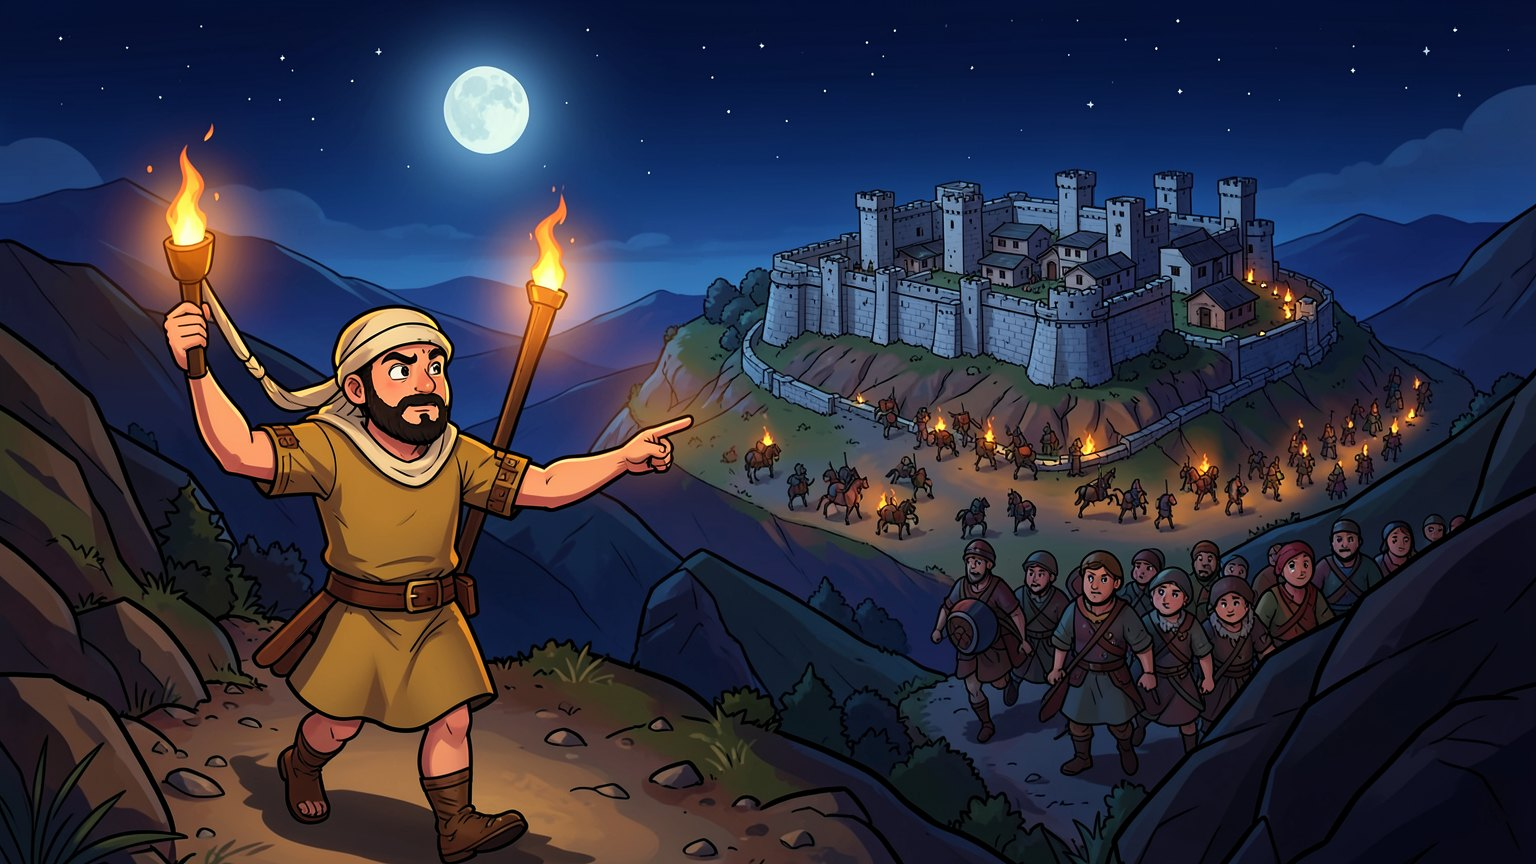
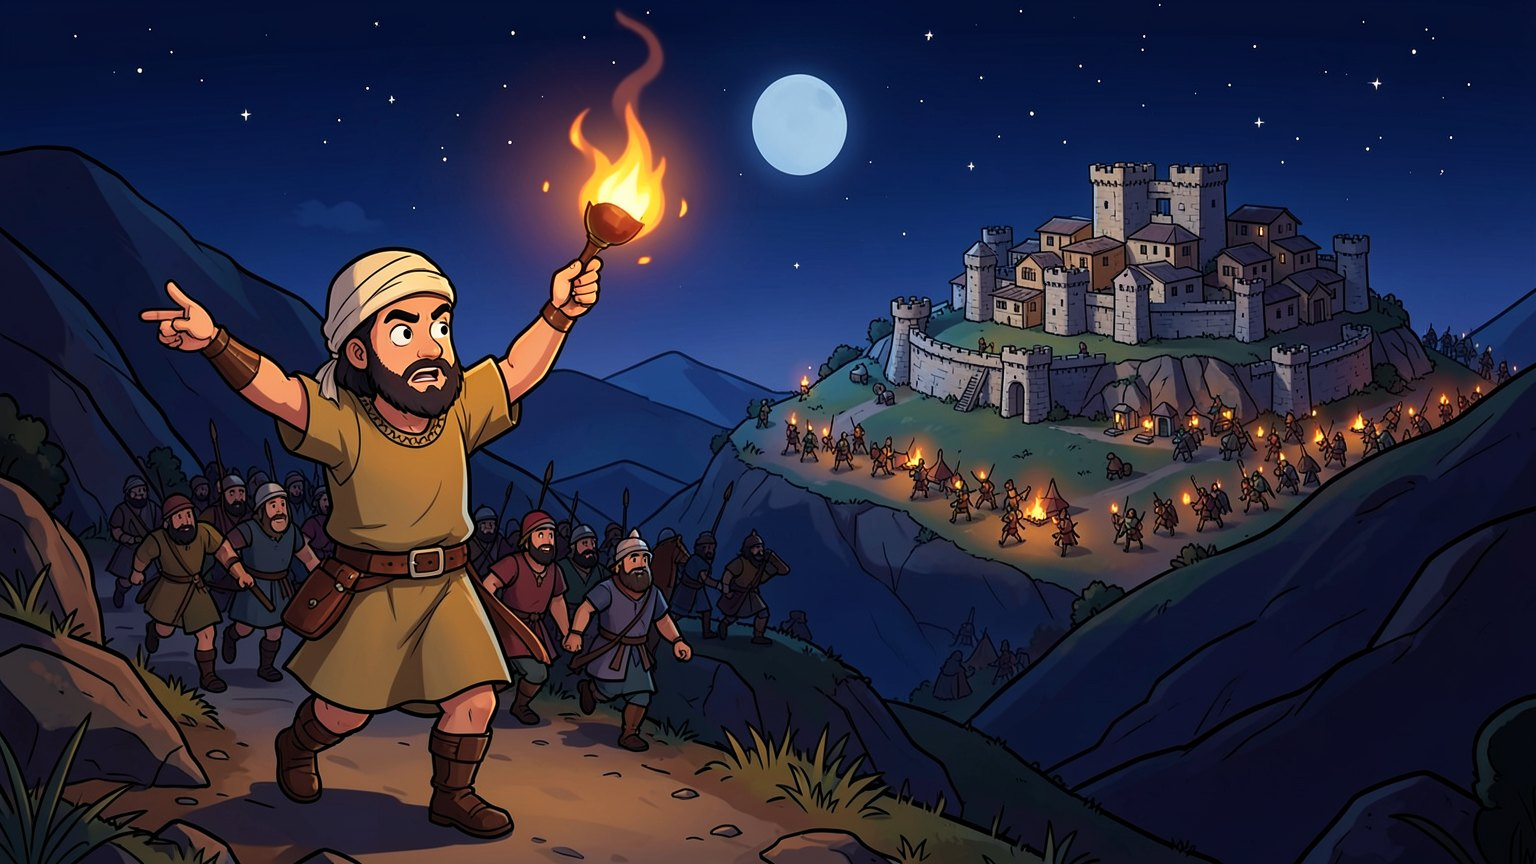
v1.7.1: 기브온 그림 고침(v10c 여호수아 팔 셋, s10c 누구 것인지 모를 손, s10g 횃불 하나 더)

diff --git a/index.html b/index.html
@@ -1785,7 +1785,7 @@ const ART_DEF={
   shep1:{h:62,top:.5},shep2:{h:68,top:.5},shep3:{h:74,top:.5},art1:{h:76,top:.7},art2:{h:82,top:.72},art3:{h:88,top:.74},
 };
 const ART={};
-const AV='?v=18';   // 그림을 바꿀 때마다 올려서 예전 그림이 캐시에서 나오지 않게
+const AV='?v=19';   // 그림을 바꿀 때마다 올려서 예전 그림이 캐시에서 나오지 않게
 const BG_IMG={},REAR_IMG={},FALL_IMG={};   // REAR_IMG: 처음엔 막혀 있는 뒷길을 덮는 그림(bgN_rear.png) · FALL_IMG: 성벽이 무너진 배경(bg9_fall.jpg, 수 6:20)
 function loadArt(){for(const k of Object.keys(STAGES).map(Number)){const im=new Image();im.onload=()=>{BG_IMG[k]=im;if(G&&G.sid===k)buildBg();};im.src='art/bg'+k+'.jpg'+AV;if(STAGES[k].rear!=null){const r=new Image();r.onload=()=>{REAR_IMG[k]=r;if(G&&G.sid===k)buildBg();};r.src='art/bg'+k+'_rear.png'+AV;}
     if(STAGES[k].jericho){const f=new Image();f.onload=()=>{FALL_IMG[k]=f;};f.src='art/bg'+k+'_fall.jpg'+AV;}}

diff --git a/_art/새그림10작성.py b/_art/새그림10작성.py
@@ -64,3 +64,22 @@ items3 = [
     scene("s10a", "inside a brown goat-hair tent at night by the light of one small clay oil lamp: one single Israelite man named Achan, all alone, with a brown beard and a plain striped tunic, kneels behind a shallow hole dug in the dirt floor and nervously hides in it a beautiful embroidered colorful robe, a small pile of shining silver pieces and one gold bar, glancing worriedly over his shoulder at the closed tent flap; the hole with the robe, the silver and the gold is right in the center of the picture at the height of the man's waist, seen from the front at eye level; the bottom third of the picture is only plain dark dirt floor; nobody else is in the tent; tense quiet mood, child-friendly.", (4, 5, 6)),
 ]
 json.dump({"출력": "raw", "크기": [1024, 1024], "단계": 4, "항목": items3}, open('새그림10c.json', 'w', encoding='utf-8'), ensure_ascii=False, indent=1)
+
+# 넷째 작업(새그림10d.json): v10c 시드 1은 가운데 여호수아의 팔이 셋(손 흔들기·악수·나뭇단)이어서(10-13 사용자), 악수만 하고 빈손으로 다시 그린다
+items4 = [
+    scene("v10c", f"in front of the open wooden gate of {CITY}, {GIBEON}, joyfully welcome the Israelites. In the center, {JOSHUA}, warmly shakes hands with a gray-bearded Gibeonite elder: Joshua's right hand holds the elder's right hand, and Joshua's left arm hangs relaxed at his side; Joshua carries nothing. Around them Gibeonite men carry bundles of firewood on their shoulders and Gibeonite women carry big clay water jars toward a simple stone altar with rising white smoke; children wave and smile; warm golden evening light, peace and friendship.", (2, 3, 4, 5)),
+]
+json.dump({"출력": "raw", "크기": [1024, 1024], "단계": 4, "항목": items4}, open('새그림10d.json', 'w', encoding='utf-8'), ensure_ascii=False, indent=1)
+
+# 다섯째 작업(새그림10e.json): v10c를 고치며 다른 그림도 확대해 보니, s10c는 두루마리 든 여호수아 어깨 뒤에 누구 것인지 모를 손이, s10g는 여호수아 등 뒤에 횃불이 하나 더 있어서(10-13) 다시 그린다
+items5 = [
+    scene("s10c", f"two big green hills facing each other, Mount Ebal and Mount Gerizim; on the slope stands a plain altar of rough uncut natural field stones piled up into a low square block, with thin white smoke; in the valley between the hills {PRIESTS} stand around {ARK}; in front, {JOSHUA}, stands alone in an open space holding a large open scroll with both of his hands and reads aloud; nobody stands close behind him; the whole people of Israel, men, women, children and foreign travelers in different colorful clothes, stand on both hillsides listening; bright clear day.", (2, 3, 4)),
+    scene("s10g", f"night: by torchlight the army of Israel marches quickly up a steep winding mountain road through the dark hills; at the front, {JOSHUA}, holds up one single burning torch in his right hand and points ahead with his left hand; he carries no other torch; far away on a moonlit hilltop {CITY} is surrounded by the many small campfires of an enemy army camp; stars above; urgent but hopeful, child-friendly.", (2, 3, 4)),
+]
+json.dump({"출력": "raw", "크기": [1024, 1024], "단계": 4, "항목": items5}, open('새그림10e.json', 'w', encoding='utf-8'), ensure_ascii=False, indent=1)
+
+# 여섯째 작업(새그림10f.json): 새그림10e의 s10c는 궤가 휘장처럼 나오거나(시드 2) 읽는 사람이 등을 보이거나(3) 산에 글자가 들어가서(4), 여호수아를 앞을 보게 세우고 다시 그린다
+items6 = [
+    scene("s10c", f"two big green hills facing each other, Mount Ebal and Mount Gerizim, with crowds of people of Israel standing on both slopes, men, women, children and foreign travelers in different colorful clothes, all listening; on the left slope a low square altar of rough uncut natural field stones with thin white smoke; in the valley between the hills four {PRIESTS} hold {ARK}; in the front center, {JOSHUA}, stands on a low flat rock facing the viewer and reads aloud from a large open scroll that he holds with both hands; open space around him; bright clear day; no letters or writing anywhere in the picture.", (5, 6, 7, 8)),
+]
+json.dump({"출력": "raw", "크기": [1024, 1024], "단계": 4, "항목": items6}, open('새그림10f.json', 'w', encoding='utf-8'), ensure_ascii=False, indent=1)

diff --git a/기획서.md b/기획서.md
@@ -450,6 +450,7 @@
 - [x] 찬양대 기본 공격(10-12 사용자): 빛 24·1.6초(초당 15)로 3단계 성소 레위인(50·1.3초, 초당 약 38)보다 약해 4단계로 올리면 손해였다. 빛 52·1.3초(초당 40)로 3단계보다 조금 세게 올리고, 기술 셋은 그대로 둔다
 - [x] 10 기브온 설계(10-12 초안, 사용자: 추천대로): 위 '10 기브온 (v1.7) 설계안'. 길 시안(`_art/지도2.json`의 10, 탑 자리 18)과 설명 그림(`ref2/sketch10.png`)
 - [x] v1.7(10-12): 10 기브온. 열다섯 무리, 1~3무리는 밤(무리마다 조금씩 밝아짐, 길 들머리에 적의 진영 불), 4무리에 "갑자기 그들에게 이르니"(10:9)와 새벽빛. 위쪽 가운데 해의 길(4무리에 해가 떠서 12무리에 중천), 12무리에 성문 앞 여호수아(NPC)가 저절로 기도하고(10:12, 기도하는 그림 joshua_pray) 해가 머물고 서쪽 끝에 낮달, 지도에는 기브온 위 햇빛과 아얄론 골짜기 위 달빛. 5초 뒤 벧호론 비탈(길 0의 150~1050) 위에 구름과 우박: 1.6초마다 비탈 위 적 하나를 골라 0.6초 그림자 뒤 둘레 34에 거룩한 피해 45와 0.5초 멈춤. 15무리를 다 풀어 주면 우박이 그치고 "이같은 날은 전에도 없었고 후에도 없었나니"(10:14) 뒤 승리 그림 만화. 다섯 왕은 무리 알림으로만(1·3·5·7·9·15). 북잡이(두려움의 영, 체력 70·이동 30·방어 0.1·완악 0.2·세겔 14): 0.9초마다 북, 둘레 120의 탑 공격 속도 −30%(가장 센 하나만), 기절·멈춤이면 북을 못 침, 갈렙의 "그들을 두려워하지 말라" 안의 탑은 듣지 않음(설명에 한 줄 더함). 북소리가 닿은 탑은 떨고 발밑에 보랏빛 고리, 정보 칸에 '북소리 −30%'. 두루마리(북잡이, 다시 주신 아이, 기브온 사람들, 해와 달이 머문 날, 숨은 이야기 '기브온 사람의 물 긷기를 도와주었다'), 도움말 넷, 소리(북·우박·기도할 때 합창 화음). 9의 승리 화면 "다음 판에서 만나요"를 지움. 그림(`_art/새그림10작성.py` → 새그림10·10b·10c.json, `고르기_10.json`): bg10은 길 시안을 참조로 그린 시드 1(성문과 큰 못을 그림대로 두고 길·탑 자리를 맞춤), 이야기 일곱 s10a–g, 승리 셋 v10a–c, 아모리 궁수·북잡이, 기도하는 여호수아, 물동이. s10a는 아간이 둘로 나와 다시 그렸고, 감춘 은과 금이 이야기 글 상자에 가려서 한 번 더 그린 뒤 이야기 화면에 그림을 올리는 `sy`(그림 높이 비율)를 더해 12% 올렸다. s10e는 맹세 장면에 기브온 사람이 빠져 다시 그렸다. 다른 프로그램이 GPU 메모리를 6GB쯤 잡고 있으면 FLUX 한 장에 6분 넘게 걸리고, 두 세션이 그림생성.py를 함께 돌리면 둘 다 멈춘다(10-12). 한 번에 하나만 돌린다. 앱 1.7(16)
+- [x] v1.7.1(10-13 사용자): 10 기브온 승리 만화 마지막 그림(v10c, 여호와의 제단을 위하여)의 여호수아 팔이 셋(손 흔들기·악수·나뭇단)이어서, 장로와 악수만 하고 빈손으로 다시 그림(`_art/새그림10d.json` 시드 4). 다른 그림도 반씩 잘라 확대해 보니 s10c(에발 산)는 두루마리 든 여호수아 어깨 뒤에 누구 것인지 모를 손이, s10g(밤의 행군)는 여호수아 등 뒤에 횃불이 하나 더 있어서 함께 다시 그림(s10c는 바위 위에서 앞을 보고 읽게 `새그림10f.json` 시드 7, s10g는 횃불 하나 `새그림10e.json` 시드 3). 고를 때 인물마다 확대해 팔과 손을 센다
 - [ ] 수치 균형: 세겔 수입, 탑과 적의 체력·피해, 대기 시간, 영웅 성장 곡선은 개발하면서 프로토타입에서 맞춘다
 - [x] 그림과 소리 방향: '그림과 소리'에 반영
 - [x] 목숨 이름과 패배 화면: 약속의 등불과 사 42:3. '핵심 게임 규칙'에 반영
